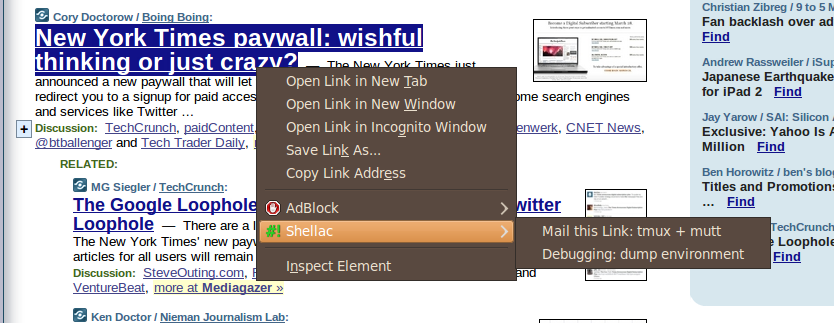
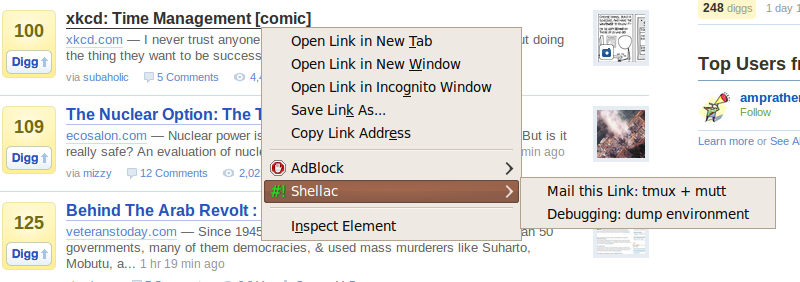
less hideous menu screenshot; extension page screenshot

diff --git a/README.md b/README.md
@@ -14,9 +14,11 @@ Some things Shellac might be used for:
 
 Shellac is alpha and targeted at developers.
 
-## Screenshot ##
+## Screenshots ##
 
-![Shellac in action](./shellac/raw/master/screenshots/mail-link.png)
+![Shellac extension page](./shellac/raw/master/screenshots/extension-popup.png)
+
+![Shellac context menu](./shellac/raw/master/screenshots/mail-link.png)
 
 ## Installation and Usage ##
 
